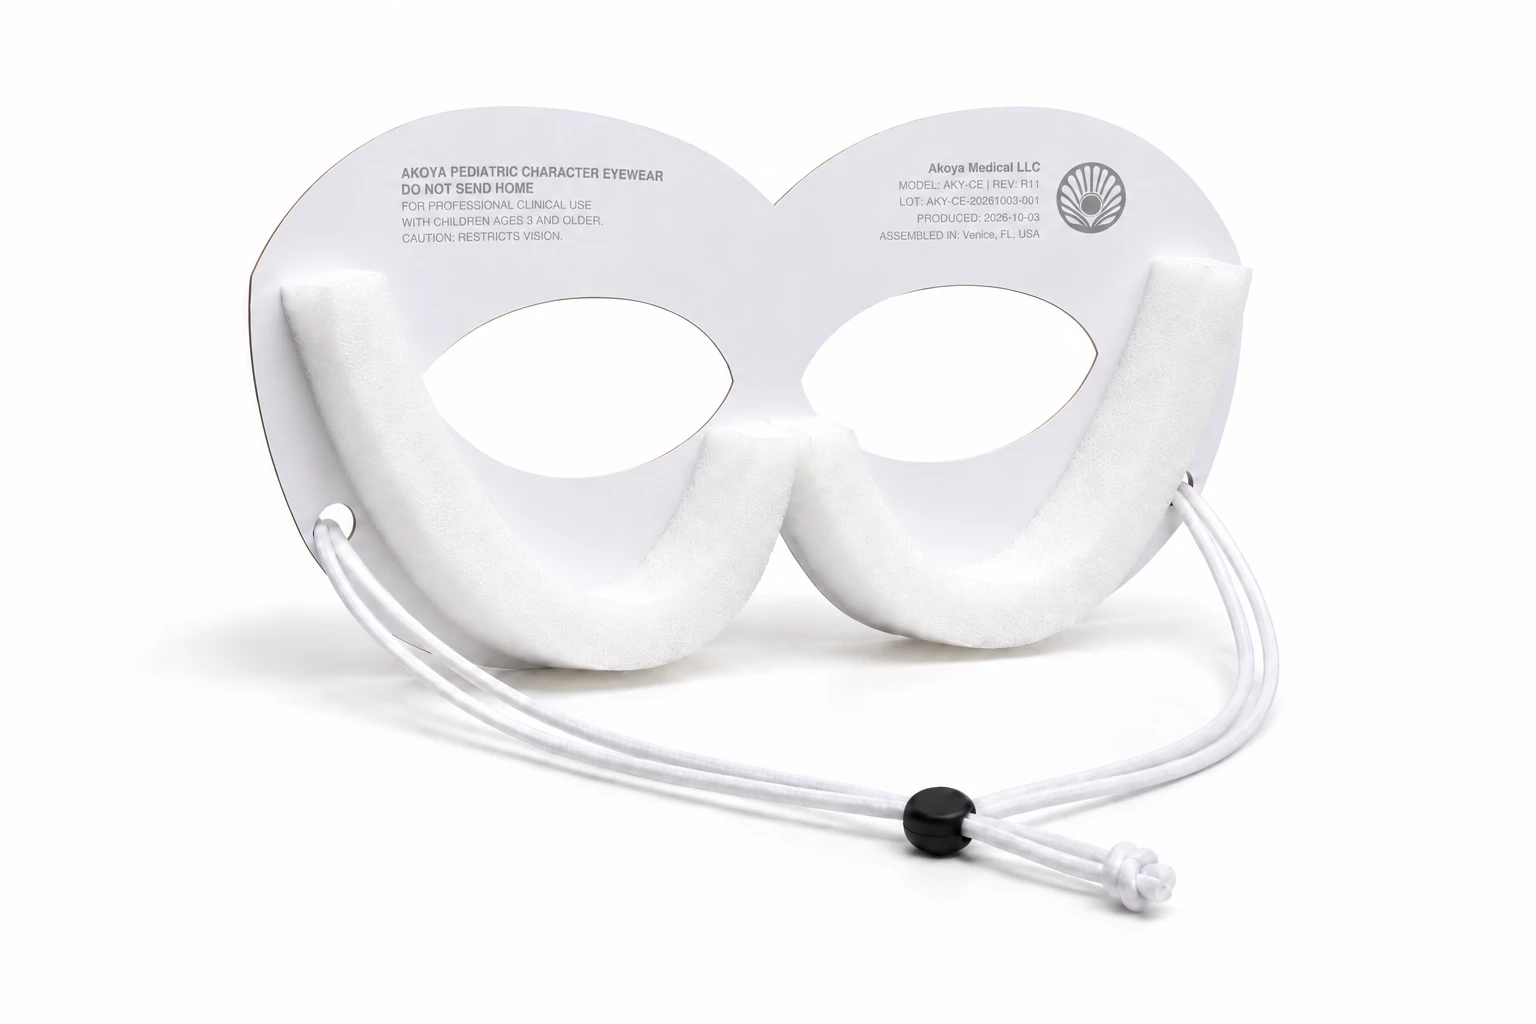
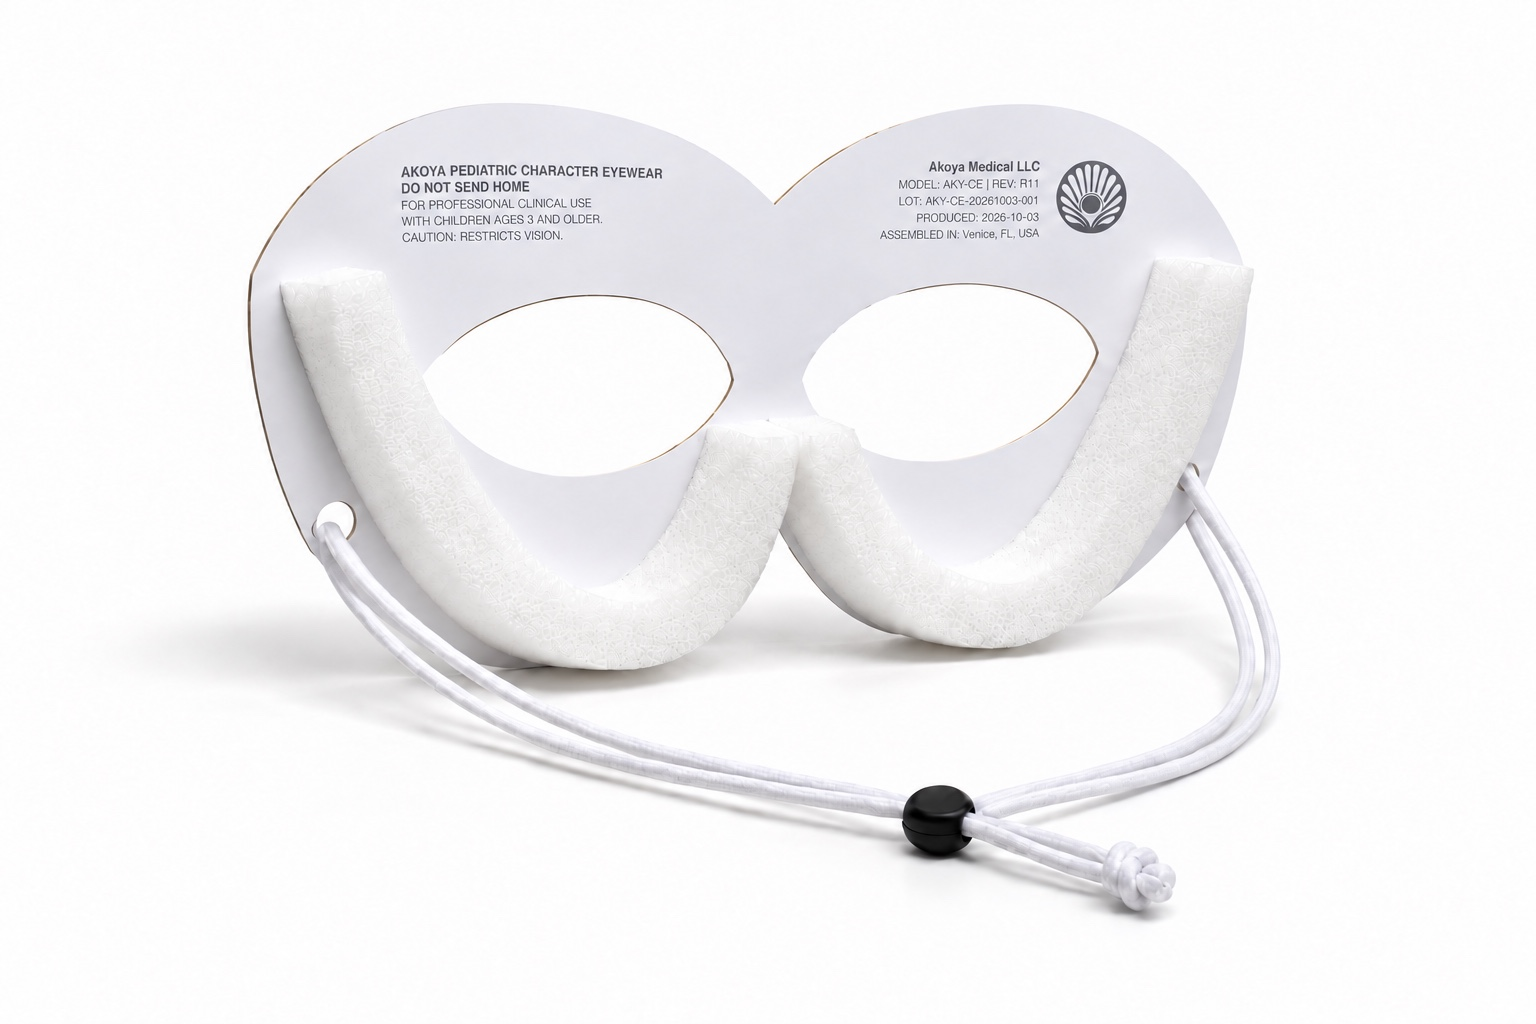
Update pediatric back view to approved cord image

diff --git a/main.js b/main.js
@@ -576,7 +576,7 @@ document.querySelectorAll('[data-eyewear-gallery]').forEach((gallery) => {
   const caption = gallery.querySelector('[data-product-caption]');
   const render = () => {
     const name = character.charAt(0).toUpperCase() + character.slice(1);
-    image.src = `assets/images/pediatric-renders/${view === 'back' ? 'back' : character}.webp`;
+    image.src = `assets/images/pediatric-renders/${view === 'back' ? 'back.webp?v=20261016-approved' : `${character}.webp`}`;
     image.alt = view === 'back' ? 'Back of pediatric eyewear showing foam supports, adjustable cord and printed care guidelines' : `Front view of ${name} pediatric character eyewear`;
     caption.textContent = view === 'back' ? 'Back view · Foam supports and adjustable cord' : `${name} · Front view`;
     gallery.querySelectorAll('[data-product-view]').forEach((button) => button.setAttribute('aria-pressed', String(button.dataset.productView === view)));

diff --git a/pediatric-character-mask.html b/pediatric-character-mask.html
@@ -109,7 +109,7 @@
   <footer class="section site-footer">
     <div class="container footer-inner"><div>© 2026 Akoya Medical. All rights reserved.</div><nav class="footer-legal" aria-label="Legal links"><a href="pediatric-safety.html">Safety &amp; Testing</a><a href="privacy-policy.html">Privacy Policy</a><a href="terms-of-use.html">Terms of Use</a></nav></div>
   </footer>
-  <script src="main.js?v=20261005-mobile" defer></script>
+  <script src="main.js?v=20261016-approved-back" defer></script>
 </body>
 </html>
 

diff --git a/index.html b/index.html
@@ -284,7 +284,7 @@
     </div>
   </footer>
   <script src="checkout-toggles.js"></script>
-  <script src="main.js?v=20261005-mobile" defer></script>
+  <script src="main.js?v=20261016-approved-back" defer></script>
   <script src="adult-eyewear.js?v=20261008" defer></script>
 </body>
 </html>
